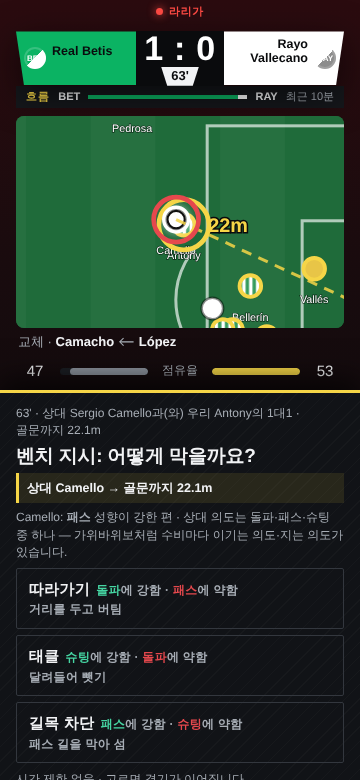
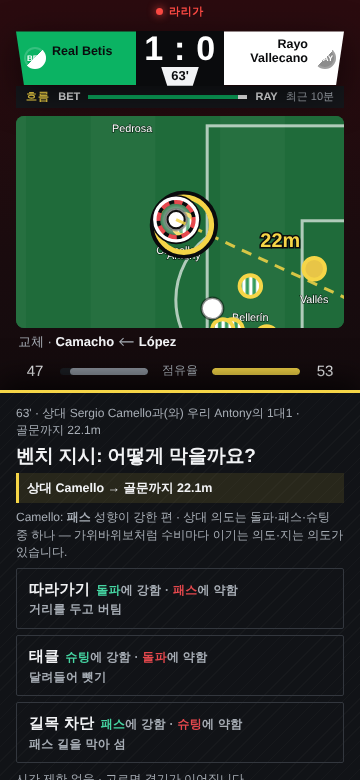
v268 후보: 검증 의견 반영 — 코너 확대 범위(공·박스 함께), 세트피스 선수 위치는 이동 중임을 표기(코너 공중볼 링 제거), 골 배너 숨김, 우리/상대 링 구분(실선·점선·검은 테두리), 거리 글자 위치
Claude-Session: https://claude.ai/code/session_01KSFtnn9mz1q7VWvYUaa5sq

Changed region(s): [[0.3972, 0.2462, 0.8556, 0.3385]]

diff --git a/src/app/0995_dec_view.js b/src/app/0995_dec_view.js
@@ -20,18 +20,18 @@ function dvClear(){DV.anim++;const svg=document.getElementById('m2d');if(svg){if
 function dvShow(d){const svg=document.getElementById('m2d');const f=dvFrame();if(!svg||!f||!d)return null;if(DV.vb==null)DV.vb=svg.getAttribute('viewBox')||'0 0 105 68';
   const me=M.me,atk=d.k==='def'?1-d.s:d.s,opp=1-atk,gx=dvGoalX(atk),gy=34,dir=gx>52?1:-1;
   let ball=[f.b[0],f.b[1]],our=[],their=[],marks=[],info='',zw=44,zc=null;
-  if(d.k==='fk'){ball=dvE2D(d.x,d.y);our=[d.tk&&d.tk.id];info=`골문까지 ${d.info.d}m · 정면에서 ${d.info.ang}m 옆`;marks=[[gx,gy,'1'],[gx-dir*11,gy,'2'],[ball[0]-dir*6,ball[1]+(ball[1]<34?6:-6),'3']]}
-  else if(d.k==='corner'){const L_=(d.info||{}).side==='L';const ey=d.s?(L_?67.5:.5):(L_?.5:67.5);ball=dvE2D(d.s?0:105,ey);our=dvTopAir(atk);their=dvTopAir(opp);const tid=dvIdByName((d.info||{}).tk);if(tid)our.unshift(tid);
-    const ny=ball[1]<34?30.3:37.7;marks=[[gx-dir*11,gy,'1'],[gx-dir*3,ny,'2'],[ball[0]-dir*9,ball[1]<34?ball[1]+3:ball[1]-3,'3']];info=`박스 공중볼 상위 3명 표시 · 우리(노랑) vs 상대(빨강)`;zc=[gx-dir*14,gy];zw=40}
+  if(d.k==='fk'){ball=dvE2D(d.x,d.y);our=[d.tk&&d.tk.id];info=`정면에서 ${d.info.ang}m 옆 · 번호는 선택지별로 공이 갈 곳 · 선수들은 아직 위치로 이동 중`;marks=[[gx,gy,'1'],[gx-dir*11,gy,'2'],[ball[0]-dir*6,ball[1]+(ball[1]<34?6:-6),'3']]}
+  else if(d.k==='corner'){const L_=(d.info||{}).side==='L';const ey=d.s?(L_?67.5:.5):(L_?.5:67.5);ball=dvE2D(d.s?0:105,ey);our=[];their=[];const tid=dvIdByName((d.info||{}).tk);if(tid)our.unshift(tid);/* v268 검증 의견: 결정 순간 선수 위치는 코너 배치 전(이동 중)이라 공중볼 상위 선수 링은 판단을 왜곡 → 키커만 표시, 공중볼 비교는 글로 */
+    const ny=ball[1]<34?30.3:37.7;marks=[[gx-dir*11,gy,'1'],[gx-dir*3,ny,'2'],[ball[0]-dir*9,ball[1]<34?ball[1]+3:ball[1]-3,'3']];info=`선수들은 아직 코너 위치로 이동 중 · 번호는 선택지별로 공이 갈 곳`;zc=[(ball[0]+gx-dir*11)/2,(ball[1]+gy)/2];zw=58}
   else if(d.k==='def'){const ap=dvPos(f,d.atk),dp=dvPos(f,d.aid);if(ap)ball=ap;our=[d.aid];their=[d.atk];info=`상대 ${esc(shortName((d.info||{}).an||''))} → 골문까지 ${(d.info||{}).dist}m`;zw=38;zc=ap&&dp?[(ap[0]+dp[0])/2,(ap[1]+dp[1])/2]:null}
   else{const ap=dvPos(f,d.aid);if(ap)ball=ap;our=[d.aid];their=dvNear(f,opp,ball,1);const I=d.info||{};
     info=d.k==='box'?`골문까지 ${I.dist}m · 슈팅 길 수비 ${I.cone??'-'}명 · 가장 가까운 수비 ${I.nd}m · 박스 안 우리 ${I.bA} : 상대 ${I.bD}`:d.k==='cross'?`가장 가까운 수비 ${I.nd}m · 박스 안 우리 ${I.bA} : 상대 ${I.bD}`:`박스 안 우리 ${I.bA??'-'} : 상대 ${I.bD??'-'} · 가장 가까운 수비 ${I.nd??'-'}m`;zw=d.k==='box'?40:44;zc=[(ball[0]+gx)/2,(ball[1]+gy)/2]}
   if(!zc)zc=[(ball[0]+gx)/2,(ball[1]+gy)/2];
   const NS='http://www.w3.org/2000/svg';let g=document.getElementById('dvL');if(g)g.remove();g=document.createElementNS(NS,'g');g.id='dvL';g.setAttribute('pointer-events','none');
-  const ring=(id,col,r)=>{const q=dvPos(f,id);if(!q)return '';return `<circle cx="${q[0]}" cy="${q[1]}" r="${r}" fill="none" stroke="${col}" stroke-width=".55"/>`};
-  const dist=Math.hypot(gx-ball[0],gy-ball[1]);let h='';
-  h+=`<line x1="${ball[0]}" y1="${ball[1]}" x2="${gx}" y2="${gy}" stroke="#F5D547" stroke-width=".35" stroke-dasharray="1.2 .9" opacity=".85"/><text x="${ball[0]+(gx-ball[0])*.3}" y="${ball[1]+(gy-ball[1])*.3-1.4}" text-anchor="middle" font-size="2.3" font-weight="800" fill="#F5D547" stroke="#0A0B0D" stroke-width=".35" paint-order="stroke">${Math.round(dist)}m</text>`;
-  our.filter(Boolean).forEach((id,i)=>h+=ring(id,'#F5D547',i===0?2.9:2.4));their.filter(Boolean).forEach(id=>h+=ring(id,'#E5484D',2.6));
+  const ring=(id,col,r,dash)=>{const q=dvPos(f,id);if(!q)return '';return `<circle cx="${q[0]}" cy="${q[1]}" r="${r+.25}" fill="none" stroke="#0A0B0D" stroke-width="1"/><circle cx="${q[0]}" cy="${q[1]}" r="${r}" fill="none" stroke="${col}" stroke-width=".6"${dash?' stroke-dasharray="1 .6"':''}/>`};/* 검증 의견: 노랑·빨강 링이 겹쳐 구분 어려움 → 우리 큰 실선, 상대 작은 점선 + 검은 테두리 */
+  const dist=Math.hypot(gx-ball[0],gy-ball[1]);const lt=marks.length?.22:.6;let h='';
+  h+=`<line x1="${ball[0]}" y1="${ball[1]}" x2="${gx}" y2="${gy}" stroke="#F5D547" stroke-width=".35" stroke-dasharray="1.2 .9" opacity=".85"/><text x="${ball[0]+(gx-ball[0])*lt}" y="${ball[1]+(gy-ball[1])*lt+(ball[1]<34?-2.4:3.4)}" text-anchor="middle" font-size="2.3" font-weight="800" fill="#F5D547" stroke="#0A0B0D" stroke-width=".35" paint-order="stroke">${Math.round(dist)}m</text>`;
+  our.filter(Boolean).forEach((id,i)=>h+=ring(id,'#F5D547',i===0?3.2:2.6));their.filter(Boolean).forEach(id=>h+=ring(id,'#E5484D',2.1,1));
   h+=`<circle cx="${ball[0]}" cy="${ball[1]}" r="1.9" fill="none" stroke="#fff" stroke-width=".4"><animate attributeName="r" values="1.4;2.6;1.4" dur="1.2s" repeatCount="indefinite"/></circle>`;
   marks.forEach(([x,y,t])=>h+=`<g><circle cx="${x}" cy="${y}" r="1.7" fill="#0A0B0D" stroke="#F5D547" stroke-width=".35"/><text x="${x}" y="${y+.8}" text-anchor="middle" font-size="2.2" font-weight="900" fill="#F5D547">${t}</text></g>`);
   g.innerHTML=h;svg.appendChild(g);svg.classList.add('dvz');dvZoom(svg,zc[0],zc[1],zw);return {info,marks:marks.length}}
@@ -45,5 +45,5 @@ function dvShow(d){const svg=document.getElementById('m2d');const f=dvFrame();if
 {const _rl=r3Lab;r3Lab=function(e){return e&&e.t==='dec'?'지시 결과':_rl.apply(this,arguments)}}
 {const st=document.createElement('style');st.textContent=`.scrim.dvm{background:transparent;pointer-events:none}.scrim.dvm .sheet{pointer-events:auto;max-height:50%;box-shadow:0 -10px 28px rgba(0,0,0,.7);padding-top:12px}
 .scrim.dvm .sheet h3{margin:2px 0 4px}.scrim.dvm .sheet .btn{padding:9px 12px;margin-top:6px}.dvinfo{margin:0 0 6px;padding:6px 8px;background:rgba(245,213,71,.10);border-left:3px solid var(--amber,#F5D547);font-size:12.5px;font-weight:700;color:var(--text,#F2F3F5)}
-#m2d.dvz .pl text{font-size:1.25px;stroke-width:.15px}#m2d.dvz .pl circle{r:1.25px}
+body:has(.scrim.dvm) .bpgoal{display:none!important}#m2d.dvz .pl text{font-size:1.25px;stroke-width:.15px}#m2d.dvz .pl circle{r:1.25px}
 .dvn{display:inline-grid;place-items:center;width:18px;height:18px;margin-right:6px;border:1.5px solid var(--amber,#F5D547);color:var(--amber,#F5D547);font-size:11px;font-weight:900;border-radius:50%;vertical-align:1px}`;document.head.appendChild(st)}
